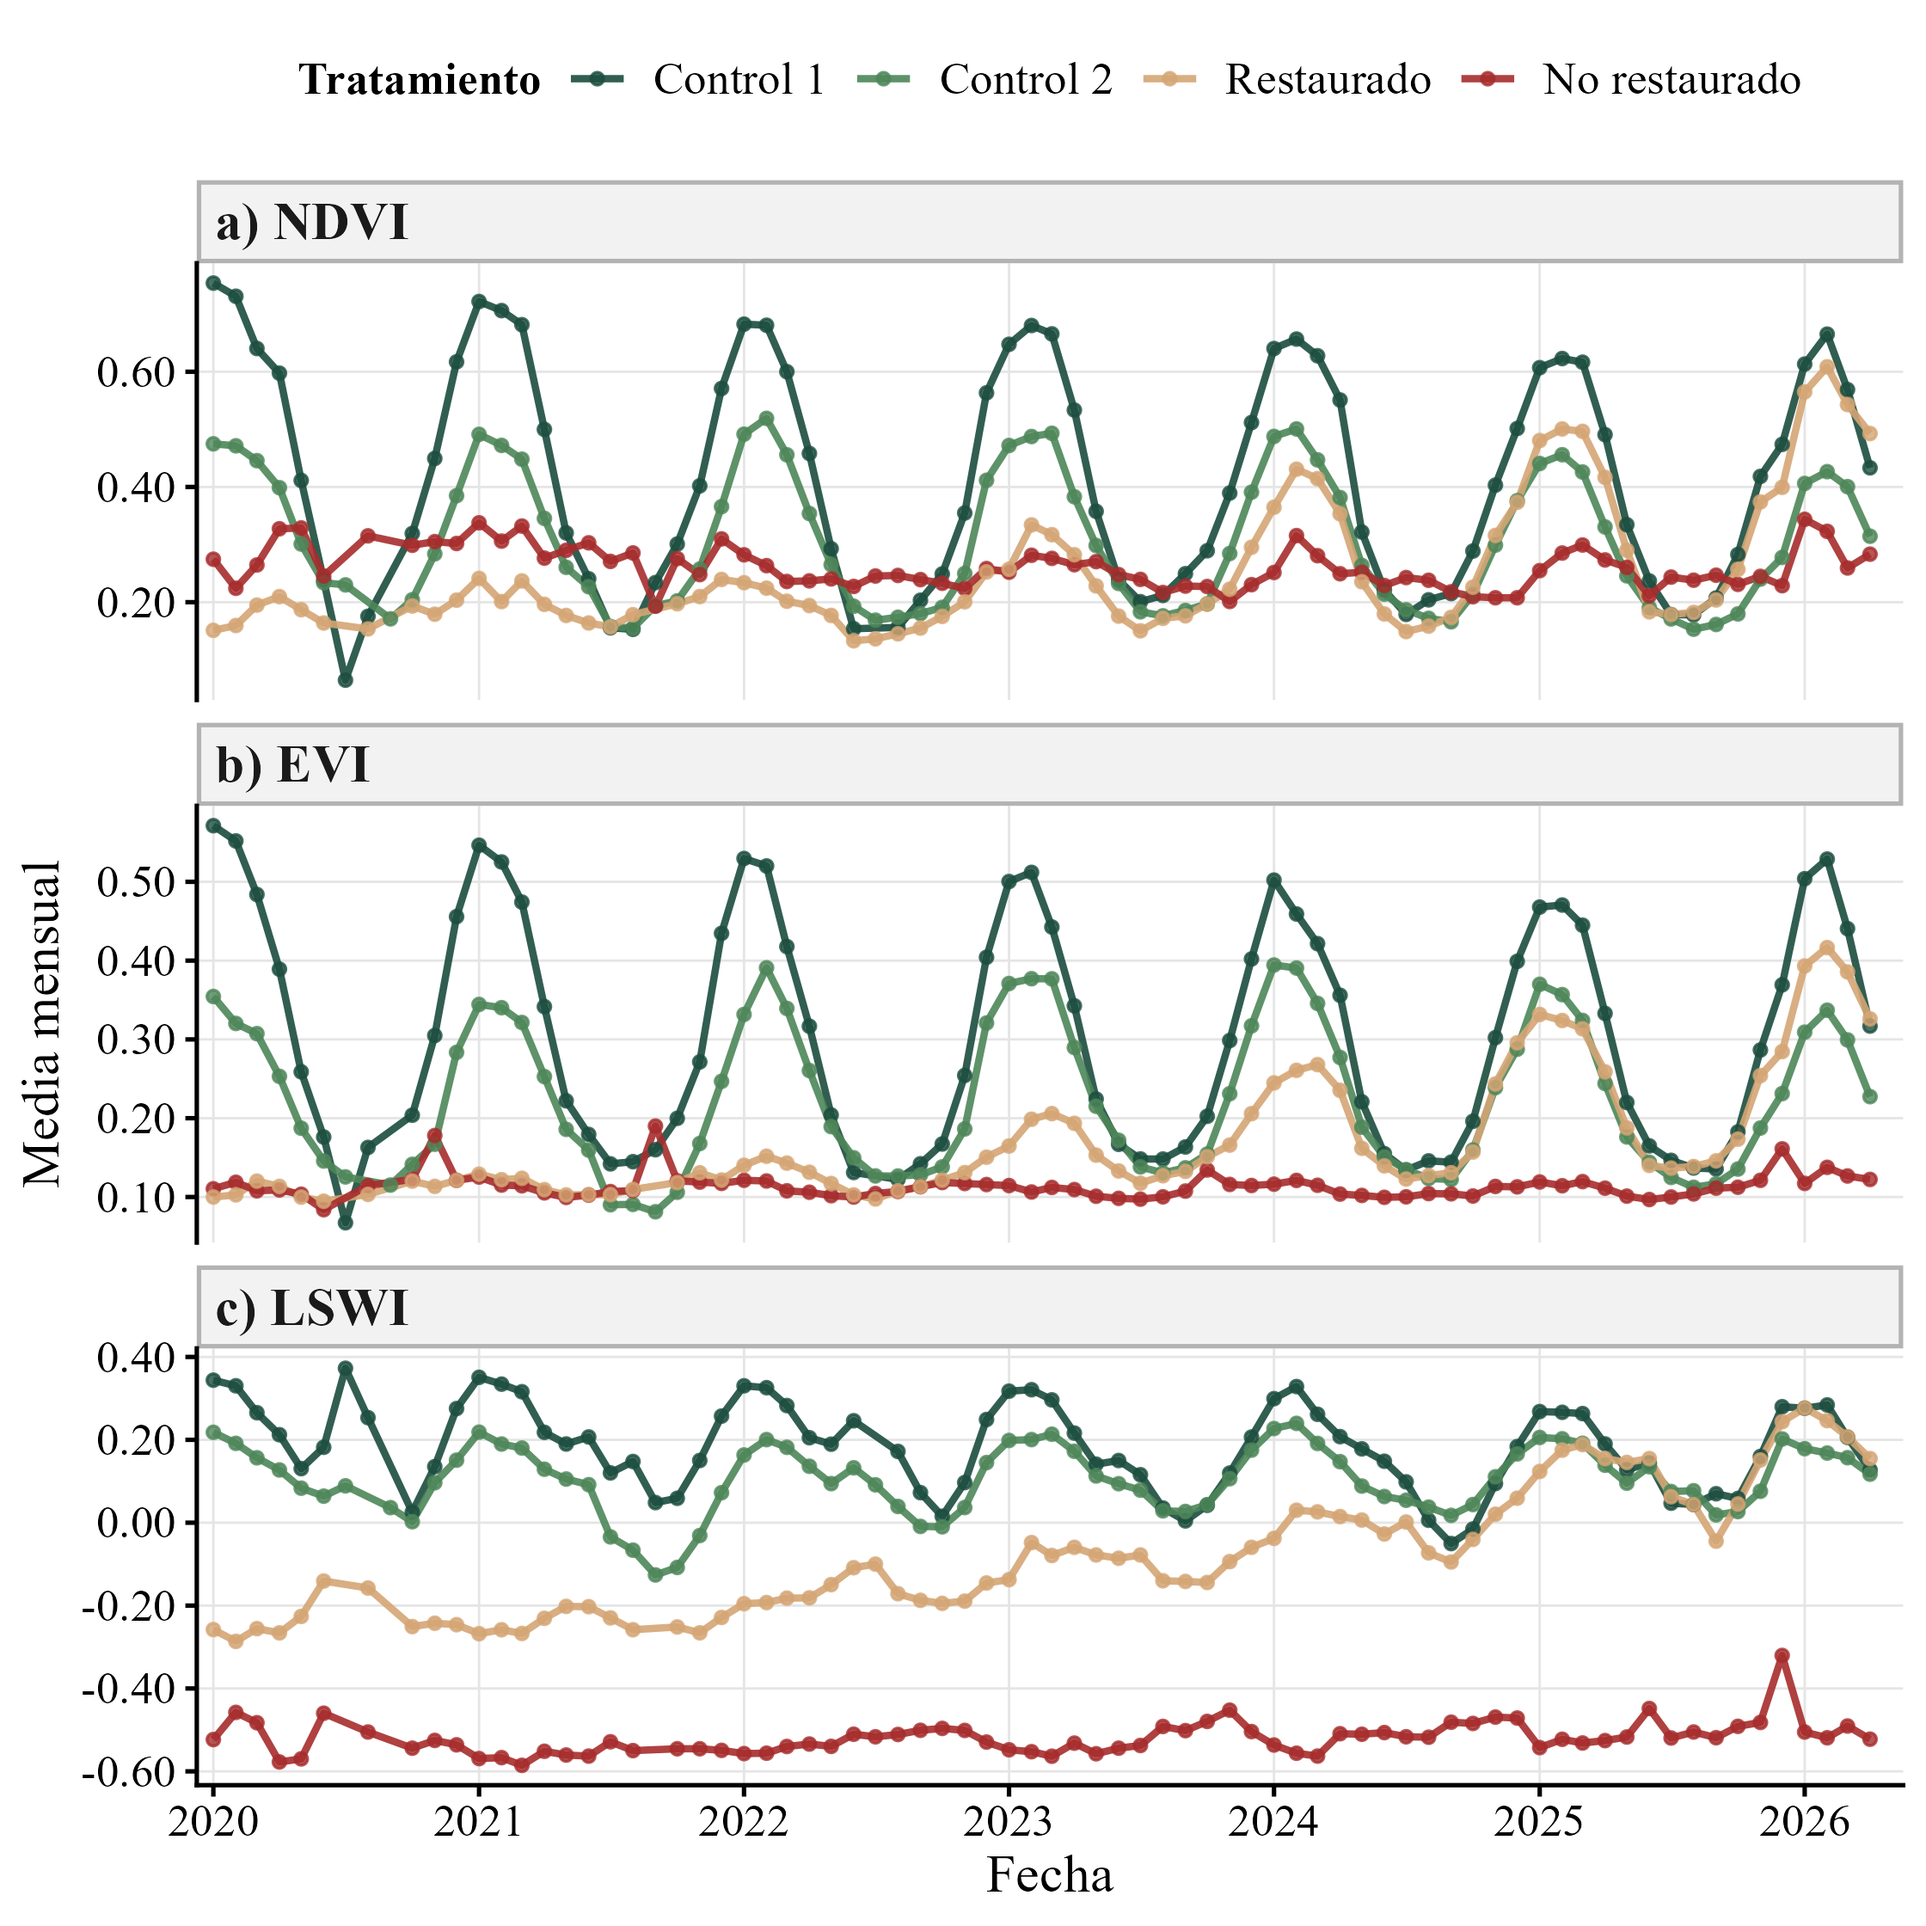
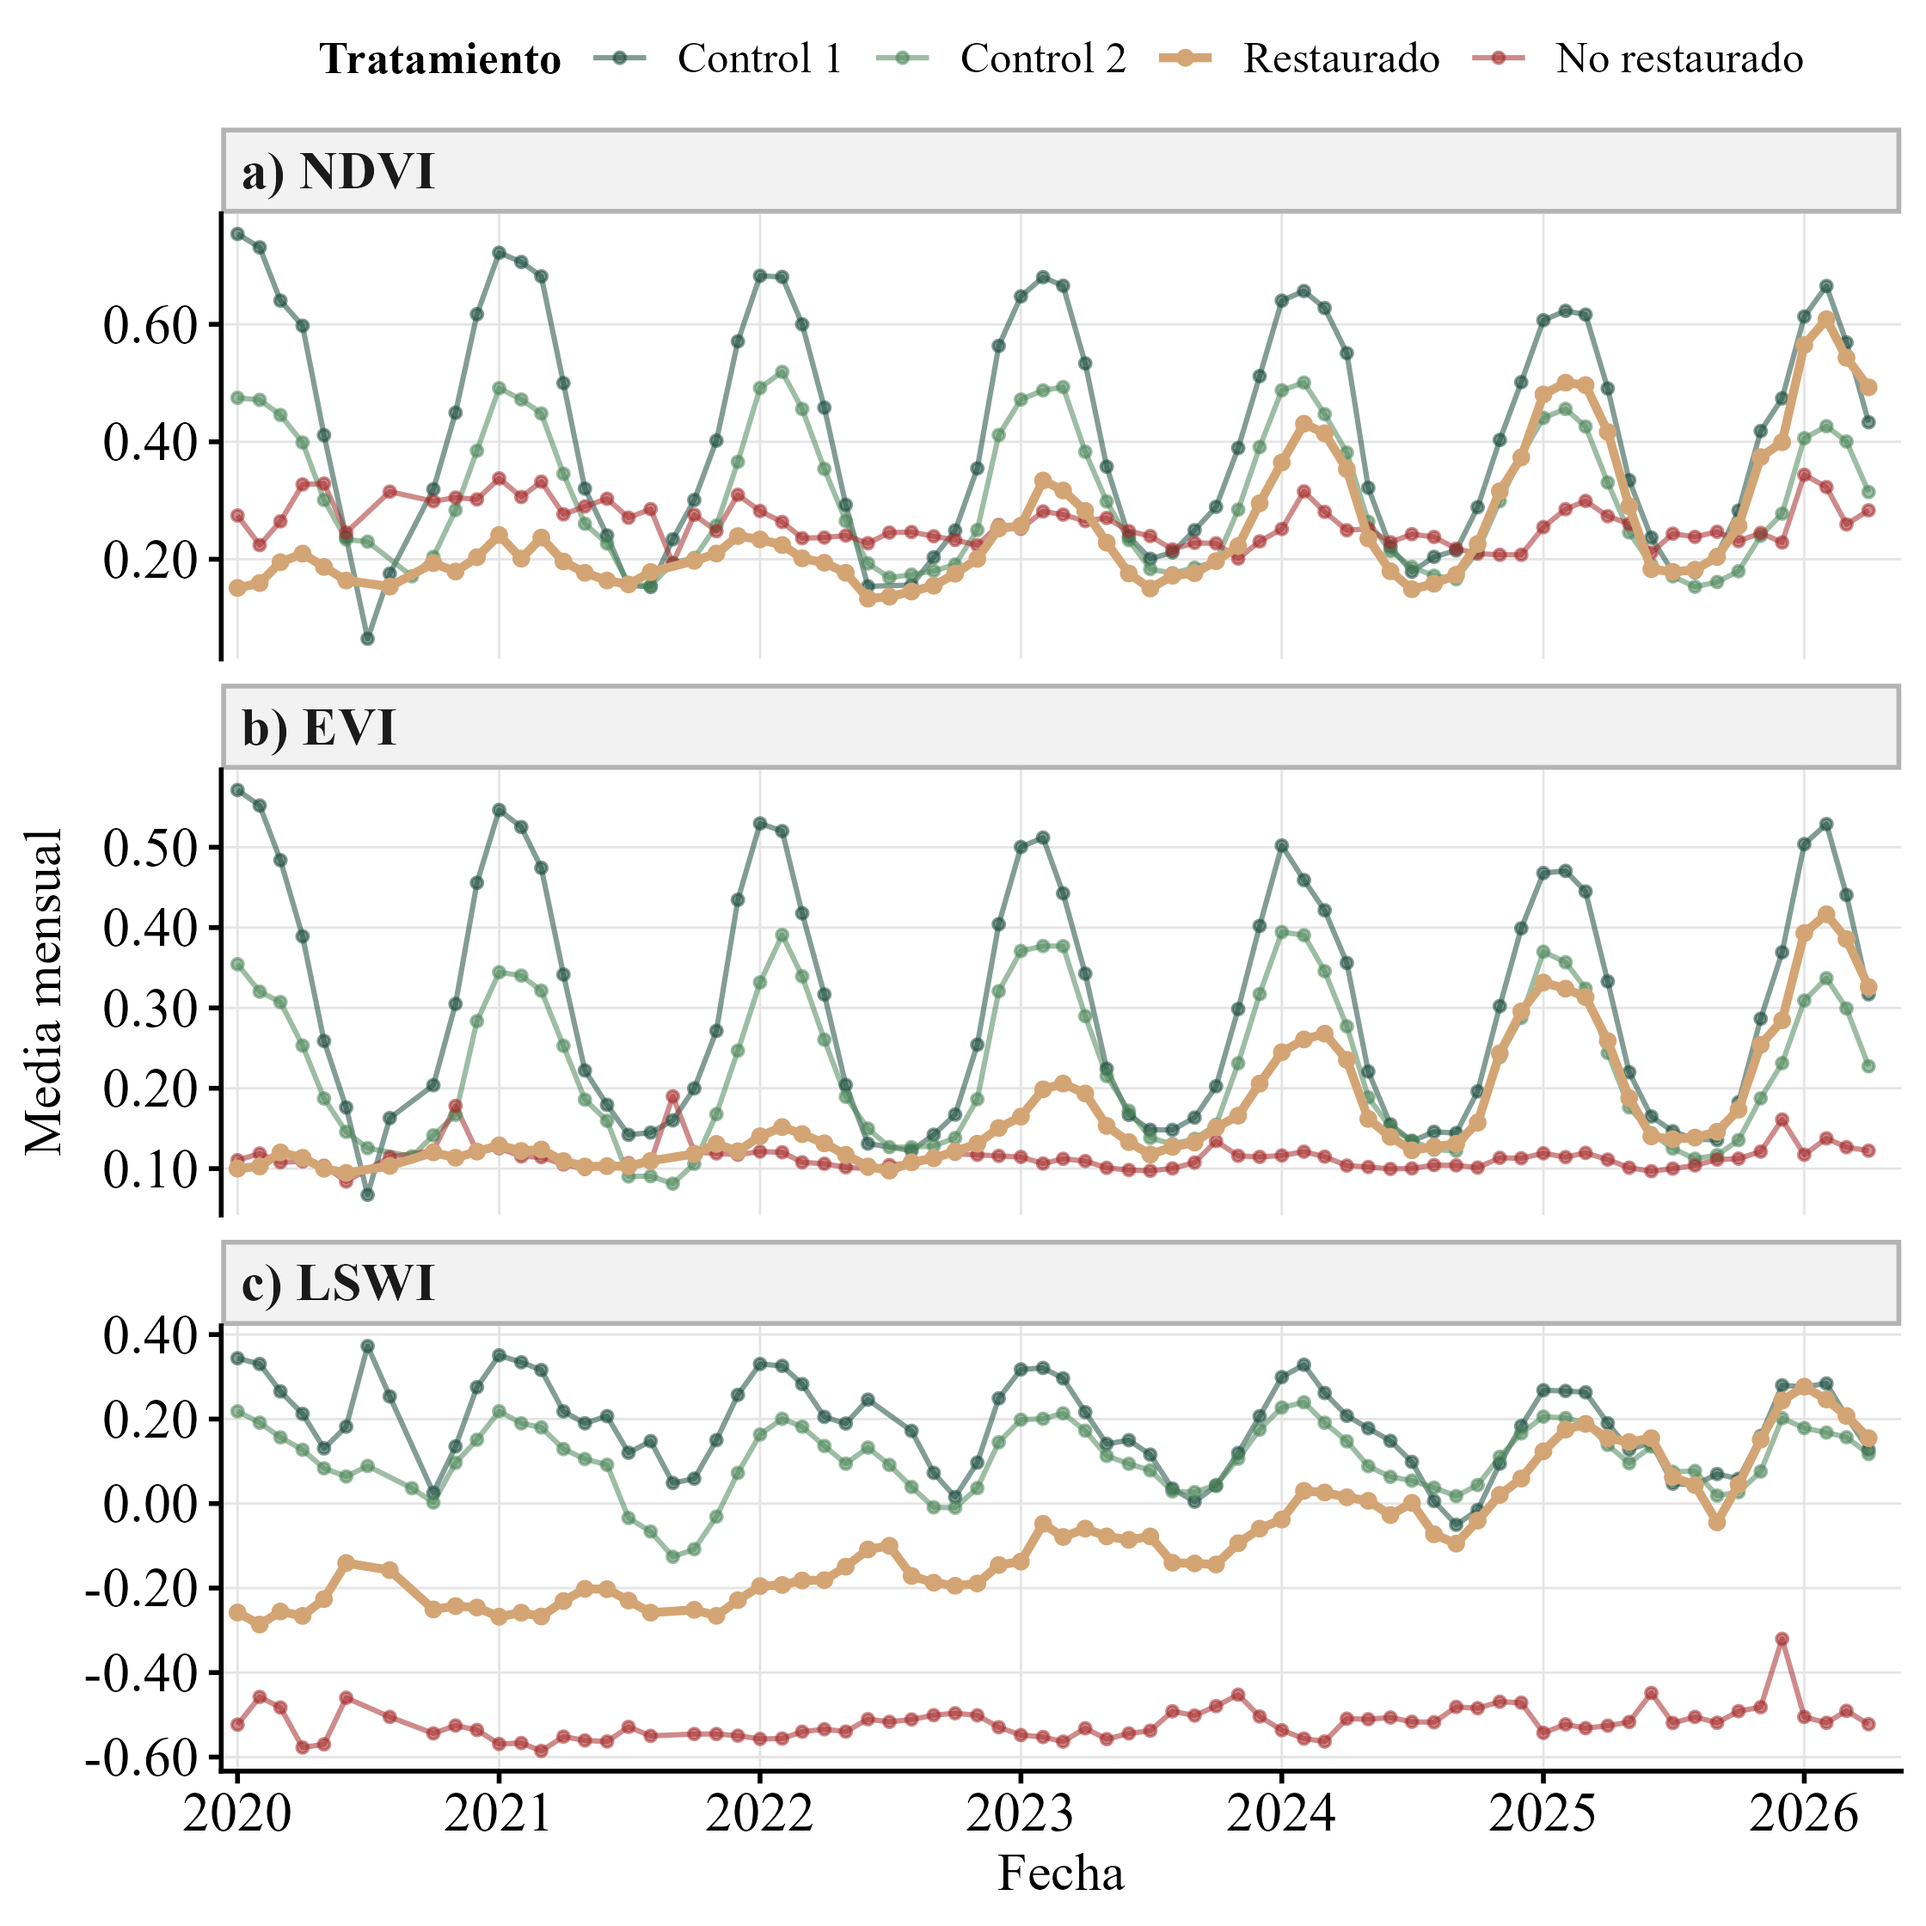
Actualizar README y agregar requirements.txt
- Ampliar contexto del estudio y descripción de tratamientos de restauración
- Corregir cobertura temporal de datos Sentinel-2 (2019-2026)
- Agregar instrucciones para visualizar los tableros HTML interactivos
- Reemplazar sección de Autoría por licencia sin datos personales, apta para publicación
- Agregar requirements.txt con las dependencias Python (earthengine-api, geemap, pandas, numpy, matplotlib, seaborn, scipy)

diff --git a/README.md b/README.md
@@ -2,7 +2,7 @@
 
 Monitoreo satelital multi-sensor (Landsat 1986–2026, Sentinel-2 2016–2026, MODIS 2000–2026) del efecto de la construcción de una represa y de acciones de restauración activa sobre los índices de vegetación y humedad de una vega altoandina (humedal de altura) ubicada en la cuenca del Salar del Hombre Muerto, Puna de Catamarca/Salta, Argentina.
 
-Este repositorio contiene el código, los datos tabulares extraídos de Google Earth Engine y las figuras utilizadas en el artículo científico asociado. **Los scripts, datos y figuras aquí publicados son los que efectivamente se usaron para producir los resultados del manuscrito**; se ofrecen para transparencia y reproducibilidad del análisis.
+Este repositorio contiene el código, los datos tabulares extraídos de Google Earth Engine y las figuras utilizadas en el artículo científico asociado. **Los scripts, datos y figuras aquí publicados son los que se usaron para producir los resultados del manuscrito**; se ofrecen para transparencia y reproducibilidad del análisis.
 
 <p align="center">
   <img src="figures/Figure1.png" width="800" alt="Área de estudio y tratamientos de restauración">
@@ -12,7 +12,9 @@ Este repositorio contiene el código, los datos tabulares extraídos de Google E
 
 ## Contexto del estudio
 
-La vega de Trapiche fue afectada por la construcción de una represa hacia mediados de los años 1990, que alteró el régimen hídrico de un sector del humedal. A partir de 2020–2021 se implementaron acciones de restauración activa (plantación, obras de re-humectación) en parte del sector degradado. El diseño de monitoreo compara cuatro unidades de tratamiento a lo largo del tiempo:
+La vega de Trapiche fue afectada por la construcción de una represa hacia mediados de los años 1990, a fines de 1994 que alteró el régimen hídrico de un sector del humedal. A partir de 2020–2021 se implementaron acciones de restauración activa (restablecimiento parcial del flujo hidrico, transplantes de champas y exclusión de ganado) en parte del sector degradado. En este trabajo monitoreamos el efecto de estas intervenciones sobre los índices de vegetación y humedad de la vega.
+
+El diseño de monitoreo compara cuatro unidades de tratamiento a lo largo del tiempo:
 
 - **Sector restaurado**: área degradada por la represa que recibió intervención de restauración.
 - **Sector no restaurado**: área degradada por la represa que no fue intervenida (control de degradación).
@@ -29,7 +31,7 @@ Analisis/
 ├── README.md
 ├── data/                                  # Series extraídas de Google Earth Engine (una fila = un píxel en una fecha)
 │   ├── datos_trapiche_landsat.csv         # Landsat 5/7/8/9, 1986-2026, escala 30 m
-│   ├── datos_trapiche_sentinel.csv        # Sentinel-2 SR, 2016-2026, escala 10 m
+│   ├── datos_trapiche_sentinel.csv        # Sentinel-2 SR, 2019-2026, escala 10 m
 │   └── datos_trapiche_modis.csv           # MODIS MOD09GQ/MYD09GQ, 2000-2026, escala 250 m
 │
 ├── scripts/
@@ -44,21 +46,19 @@ Analisis/
 │   │   ├── generate_sentinel_figures.R    # Figuras 5 y 6 (series mensuales y emmeans Sentinel-2)
 │   │   ├── generate_figure7_kde.py        # Figura 7 (densidad fenológica de referencia)
 │   │   ├── generate_restoration_photos_figure.R  # Figura S3 (panel fotográfico de restauración)
-│   │   └── ndvi_vega_trapiche.py          # Mapas NDVI comparados por período (composiciones Landsat)
+│   │   └── ndvi_vega_trapiche.py          # Mapas NDVI comparados por período (usando Landsat)
 │   │
 │   └── 3-analysis scripts/
-│       └── Analisis Sentinel 2.R          # Modelos lineales mixtos, ANOVA, emmeans/CLD y tablas del manuscrito
+│       └── Analisis Sentinel 2.R          # Modelos lineales mixtos, ANOVA, emmeans/CLD y tablas 
 │
 ├── figures/                               # Figuras finales (PNG) usadas en el manuscrito
 │
-└── visualizacion escenas/                 # Exploración interactiva de escenas Landsat individuales (HTML)
+└── visualizacion escenas/                 # Exploración interactiva de escenas Landsat
     ├── download_landsat_dates_1994_1995.py
     ├── landsat_dates_1994_1995_dashboard.html
     ├── landsat_seasons_dashboard.html
     └── .../*_images/                      # Composiciones RGB, NDVI, EVI y NDWI por escena/temporada
 ```
-
-> Nota: los scripts en `2-graphics scripts/` y `3-analysis scripts/` originalmente resolvían la raíz del proyecto asumiendo que vivían un solo nivel bajo `Analisis/` (con carpetas `Scripts/` y `Figures/` en mayúscula), en lugar de dos niveles (`scripts/2-graphics scripts/`, `scripts/3-analysis scripts/`, con `data/` y `figures/` en minúscula), que es la estructura real de esta carpeta. Ese desajuste — heredado de haber copiado los scripts desde otra organización de carpetas — ya fue corregido en este repositorio: todos resuelven la raíz del proyecto de forma robusta a partir de la ubicación real del script. La única dependencia externa pendiente es la carpeta `anexosfiguras/` (fotografías originales de la restauración) que usa `generate_restoration_photos_figure.R`: no forma parte de este repositorio porque las figuras que genera (`Figure_Restauracion_Paneles.png`, `FigureS3.png`) ya están incluidas en `figures/`; para volver a generarlas hay que crear esa carpeta en la raíz y copiar allí las 4 fotos originales.
 
 ## Datos (`data/`)
 
@@ -74,7 +74,7 @@ Cada archivo CSV contiene una fila por combinación de punto de muestreo (píxel
 
 ## Scripts de descarga (`scripts/1-download scripts/`)
 
-Scripts en Python que usan la API de Google Earth Engine (`earthengine-api` + `geemap`) para extraer, en los puntos de muestreo definidos como assets de Earth Engine (`users/CarlosNavarro/Trapiche_NDVI/...`), las bandas de reflectancia superficial y calcular los índices espectrales:
+Scripts en Python que usan la API de Google Earth Engine (`earthengine-api` + `geemap`) para extraer, en los puntos de muestreo definidos como assets de Earth Engine consistentes en una grilla de pixeles para cada uno de los sensores (`users/CarlosNavarro/Trapiche_NDVI/...`), las bandas de reflectancia superficial y calcular los índices espectrales:
 
 - **NDVI** = (NIR − Red) / (NIR + Red)
 - **EVI** = 2.5 · (NIR − Red) / (NIR + 6·Red − 7.5·Blue + 1)
@@ -97,7 +97,7 @@ Cada script aplica una máscara de calidad específica del sensor (`QA_PIXEL`/`Q
 
 ## Script de análisis estadístico (`scripts/3-analysis scripts/Analisis Sentinel 2.R`)
 
-Contiene el análisis estadístico principal del manuscrito sobre los datos Sentinel-2 (mayor densidad temporal), estructurado en:
+Contiene el análisis estadístico principal del manuscrito sobre los datos Sentinel-2 (mayor densidad temporal y resolución espacial), estructurado en:
 
 1. **Limpieza y colapso de datos**: filtrado desde julio de 2024, exclusión de valores de NDVI/EVI fuera de rango físico [-1, 1] y de píxeles con nieve, y colapso a un valor por píxel-fecha-tratamiento (mediana).
 2. **Control de calidad de escenas**: se exigen escenas con ≥80 % de cobertura de píxeles válidos en las 4 unidades de tratamiento, y se descartan fechas cuyo EVI cae anómalamente por debajo de la mediana móvil local (residuo < −0.045), como filtro adicional de nubes/sombras no capturadas por la máscara SCL.
@@ -143,6 +143,17 @@ El índice NDWI se excluye deliberadamente de este análisis por estar orientado
 
 Herramientas complementarias (no forman parte de las figuras del manuscrito) para inspeccionar visualmente escenas Landsat individuales: `download_landsat_dates_1994_1995.py` descarga composiciones RGB, NDVI, EVI y NDWI por fecha/temporada desde Earth Engine, y los archivos `.html` son tableros interactivos generados a partir de esas imágenes para revisión de calidad de escenas (nubes, sombras, nieve) durante el control de calidad de los datos.
 
+GitHub no renderiza archivos `.html`, la forma de ver estos tableros es:
+
+1. Clonar el repositorio (`git clone https://github.com/kampax/trapiche-monitoring.git`) o descargarlo como ZIP (`Code → Download ZIP`).
+2. Abrir el archivo `.html` deseado directamente con doble clic, o arrastrarlo a una pestaña del navegador:
+   - `visualizacion escenas/landsat_dates_1994_1995_dashboard.html`
+   - `visualizacion escenas/landsat_seasons_dashboard.html`
+
+Ambos son autocontenidos (HTML + imágenes referenciadas en `landsat_dates_1994_1995_images/` y `landsat_seasons_images/` dentro de la misma carpeta), así que abren correctamente en local sin necesidad de servidor.
+
+
+
 ## Cómo reproducir
 
 **Descarga de datos (Python + Google Earth Engine):**
@@ -155,7 +166,7 @@ python "scripts/1-download scripts/trapiche_sentinel_download.py"
 python "scripts/1-download scripts/trapiche_modis_download.py"
 ```
 
-Requiere acceso a los assets de Earth Engine `users/CarlosNavarro/Trapiche_NDVI/*` (puntos de muestreo geolocalizados por sector de tratamiento).
+Requiere acceso a los assets de Earth Engine `users/CarlosNavarro/Trapiche_NDVI/*` (pixeles de muestreo geolocalizados por sector de tratamiento).
 
 **Figuras (R):**
 
@@ -203,15 +214,8 @@ Rscript "scripts/3-analysis scripts/Analisis Sentinel 2.R"
 - Lenth, R. V. (2016). Least-squares means: The R package lsmeans. *Journal of Statistical Software*, 69(1), 1–33. https://doi.org/10.18637/jss.v069.i01 (base del paquete `emmeans`)
 - Gorelick, N., Hancher, M., Dixon, M., Ilyushchenko, S., Thau, D., & Moore, R. (2017). Google Earth Engine: Planetary-scale geospatial analysis for everyone. *Remote Sensing of Environment*, 202, 18–27. https://doi.org/10.1016/j.rse.2017.06.031
 
-## Autoría
-
-Análisis realizado por Carlos Javier Navarro Navarro (Charly) — datos extraídos vía Google Earth Engine, procesamiento en Python y R.
-
 ## Licencia
 
-Este repositorio usa licenciamiento dual, práctica habitual en proyectos científicos que combinan código y datos de investigación:
+- **Código** (`scripts/`, `visualizacion escenas/`): licencia [MIT](LICENSE).
+- **Datos y figuras** (`data/*.csv`, `figures/*.png`): licencia [Creative Commons Atribución 4.0 Internacional (CC BY 4.0)](DATA_LICENSE).
 
-- **Código** (`scripts/`, `visualizacion escenas/`): licencia [MIT](LICENSE). Permite reutilizar, modificar y redistribuir los scripts libremente, incluso con fines comerciales, manteniendo el aviso de copyright.
-- **Datos y figuras** (`data/*.csv`, `figures/*.png`): licencia [Creative Commons Atribución 4.0 Internacional (CC BY 4.0)](DATA_LICENSE). Permite compartir y adaptar los datos siempre que se cite la fuente (el artículo científico y/o este repositorio).
-
-Esta combinación es la recomendada por la mayoría de las revistas y por Zenodo/Figshare para acompañar publicaciones con datos abiertos: separa claramente el software (donde MIT es el estándar de facto) de los datos observacionales (donde CC BY es el estándar para exigir atribución sin restringir el reuso). Si la revista de destino exige una licencia específica de datos (p. ej. CC0 para algunos repositorios de datos primarios), ajustar `DATA_LICENSE` en consecuencia antes de la publicación final.
